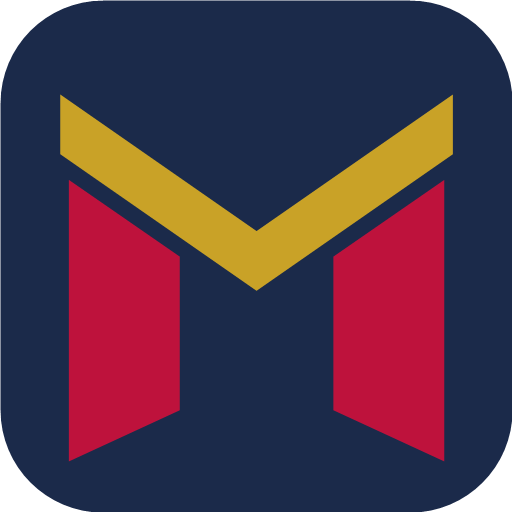
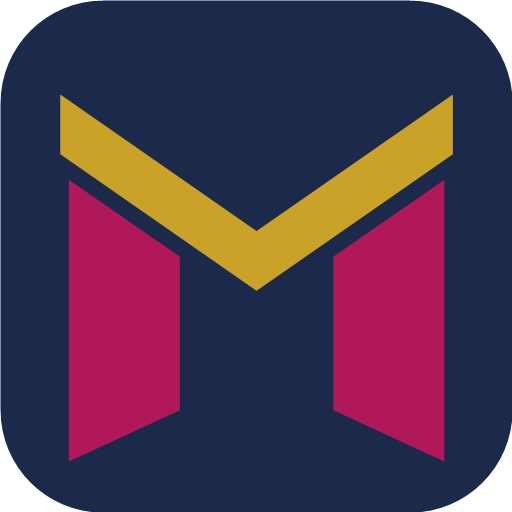
marca: Villela CRM na prancha OFICIAL aprovada
- pictograma = rede de pessoas (3 nos conectados pendurados no chevron)
- acento = Rosa Magenta #B0185A (era #BE123C provisorio)
- slogan oficial: 'Relacionamento que aproxima. Processos que convertem.'
- kit inteiro regenerado (SVGs + PNGs GDI+ + og-image) + referencia-board.png
- landing/painel com as cores novas; ficha da home com slogan e cor oficiais

Changed region(s): [[0.125, 0.3438, 0.375, 0.9062], [0.625, 0.3438, 0.875, 0.9062]]

diff --git a/crm/paginas.js b/crm/paginas.js
@@ -2,7 +2,7 @@
 // Villela CRM — páginas públicas + painel do assinante.
 // Landing/preços/signup em /crm · painel em /crm/app (SPA app-cliente.js)
 // · proposta pública em /crm/p/:token. Server-rendered, sem build.
-// Identidade: sistema V-Portal do Grupo Villela Stay; acento CRM #BE123C.
+// Identidade: sistema V-Portal do Grupo Villela Stay; acento CRM #B0185A.
 // =====================================================================
 'use strict';
 const jwt = require('jsonwebtoken');
@@ -14,7 +14,7 @@ const esc = (t) => String(t == null ? '' : t).replace(/&/g, '&amp;').replace(/</
 const brl = (c) => 'R$ ' + (Number(c || 0) / 100).toLocaleString('pt-BR', { minimumFractionDigits: 0 });
 const s = (v, max = 500) => String(v == null ? '' : v).trim().slice(0, max);
 
-const CSS = `:root{--villela-navy:#1B2A4A;--villela-navy2:#24365C;--villela-gold:#C9A227;--villela-ice:#F8F9FA;--villela-graphite:#1F2933;--acento:#BE123C;--acento2:#9F1239;--borda:#E2E6EC}
+const CSS = `:root{--villela-navy:#1B2A4A;--villela-navy2:#24365C;--villela-gold:#C9A227;--villela-ice:#F8F9FA;--villela-graphite:#1F2933;--acento:#B0185A;--acento2:#8E1348;--borda:#E2E6EC}
 *{box-sizing:border-box}body{font-family:'Inter',system-ui,'Segoe UI',Arial,sans-serif;margin:0;color:var(--villela-graphite);background:var(--villela-ice)}
 h1,h2,h3{font-family:'Lora',Georgia,serif}
 a{color:var(--acento)}.wrap{max-width:1040px;margin:0 auto;padding:0 18px}
@@ -23,7 +23,7 @@ a{color:var(--acento)}.wrap{max-width:1040px;margin:0 auto;padding:0 18px}
 .badge{display:inline-block;background:var(--villela-gold);color:var(--villela-navy);font-weight:700;padding:4px 12px;border-radius:20px;font-size:.85rem}
 .btn{display:inline-block;background:var(--acento);color:#fff;font-weight:700;border:0;border-radius:26px;padding:13px 28px;cursor:pointer;font-size:1rem;text-decoration:none}
 .btn:hover{background:var(--acento2)}
-.btn.g{background:#fff;color:var(--acento)}.btn.g:hover{background:#fdeef1}.btn.o{background:transparent;border:2px solid #f4f6f9;color:#f4f6f9}.btn.o:hover{background:rgba(255,255,255,.12)}
+.btn.g{background:#fff;color:var(--acento)}.btn.g:hover{background:#fdeef6}.btn.o{background:transparent;border:2px solid #f4f6f9;color:#f4f6f9}.btn.o:hover{background:rgba(255,255,255,.12)}
 .sec{padding:56px 0}.sec h2{font-size:1.7rem;color:var(--villela-navy);text-align:center;margin-bottom:8px}
 .sub{text-align:center;color:#5b6b70;max-width:620px;margin:0 auto 34px}
 .grid{display:grid;grid-template-columns:repeat(auto-fit,minmax(230px,1fr));gap:18px}
@@ -37,11 +37,11 @@ a{color:var(--acento)}.wrap{max-width:1040px;margin:0 auto;padding:0 18px}
 footer{background:var(--villela-navy);color:#c3cbd9;padding:30px 0;text-align:center;font-size:.9rem}
 input,select,textarea{width:100%;padding:11px;border:1px solid #ccc;border-radius:9px;font:inherit;margin:5px 0 12px}
 .form{max-width:460px;margin:0 auto;background:#fff;padding:26px;border-radius:14px;border:1px solid var(--borda)}
-.tag{display:inline-block;background:#fbe7ec;color:var(--acento2);border-radius:12px;padding:2px 10px;font-size:.8rem}
+.tag{display:inline-block;background:#fbe7f1;color:var(--acento2);border-radius:12px;padding:2px 10px;font-size:.8rem}
 .marca{display:inline-flex;align-items:center;gap:10px}.marca img{height:32px}
 .marca .m1{font-family:'Lora',Georgia,serif;font-weight:700;font-size:1.3rem;color:var(--villela-navy)}
 .marca .m2{font-family:'Inter',system-ui,sans-serif;font-weight:600;font-size:.72rem;letter-spacing:.22em;text-transform:uppercase;color:var(--acento)}
-.marca.neg .m1{color:#fff}.marca.neg .m2{color:#FDA4AF}
+.marca.neg .m1{color:#fff}.marca.neg .m2{color:#F6A8CE}
 header.top{background:var(--villela-navy2);color:#fff}
 header.top .wrap{display:flex;align-items:center;justify-content:space-between;gap:14px;flex-wrap:wrap;padding-top:18px;padding-bottom:18px}
 header.top a{color:#E8ECF4;text-decoration:none}
@@ -134,7 +134,7 @@ function landingHTML() {
         <textarea id="l-msg" rows="3" placeholder="Quantos leads/mês você recebe? Como podemos ajudar?"></textarea>
         <button class="btn" type="submit">Enviar</button><p id="l-msg2" class="sub" style="margin:8px 0 0"></p>
       </form></div></div>
-    <footer>Villela CRM · Relacionamento e vendas inteligentes · <a href="/crm/app" style="color:var(--villela-gold)">Painel do cliente</a> · <a href="/crm/ajuda" style="color:var(--villela-gold)">Ajuda</a>
+    <footer>Villela CRM · Relacionamento que aproxima. Processos que convertem. · <a href="/crm/app" style="color:var(--villela-gold)">Painel do cliente</a> · <a href="/crm/ajuda" style="color:var(--villela-gold)">Ajuda</a>
       <br><span style="opacity:.8">Uma empresa do Grupo Villela Stay · CNPJ 56.776.526/0001-12</span>
       <script>document.getElementById('lead').onsubmit=async e=>{e.preventDefault();const m=document.getElementById('l-msg2');
         const r=await fetch('/crm/api/lead',{method:'POST',headers:{'Content-Type':'application/json'},body:JSON.stringify({
@@ -182,11 +182,11 @@ function appHTML() {
     .kpi{background:#fff;border:1px solid var(--borda);border-radius:10px;padding:10px 16px;min-width:118px}
     .kpi .n{font-size:1.4rem;font-weight:800;color:var(--villela-navy)}.kpi .r{font-size:.78rem;color:#5b6b70}
     .aviso{background:#fdf6e3;border:1px solid #ecd9a0;border-radius:9px;padding:10px 14px;font-size:.9rem;margin:.4rem 0}
-    .erro{color:#b00020}.btn.peq{padding:6px 14px;font-size:.85rem}.btn.secund{background:#fbe7ec;color:var(--acento2)}.btn.secund:hover{background:#f7d5de}
+    .erro{color:#b00020}.btn.peq{padding:6px 14px;font-size:.85rem}.btn.secund{background:#fbe7f1;color:var(--acento2)}.btn.secund:hover{background:#f7d3e7}
     .hi-grid{display:grid;grid-template-columns:repeat(auto-fit,minmax(180px,1fr));gap:10px}
     label{font-size:.85rem;font-weight:600;display:block}
     table{width:100%;border-collapse:collapse;font-size:.9rem}th,td{text-align:left;padding:6px 8px;border-bottom:1px solid var(--borda)}
-    th{color:#5b6b70;font-weight:600}.chip,.tag{display:inline-block;background:#fbe7ec;color:var(--acento2);border-radius:12px;padding:2px 9px;font-size:.78rem}
+    th{color:#5b6b70;font-weight:600}.chip,.tag{display:inline-block;background:#fbe7f1;color:var(--acento2);border-radius:12px;padding:2px 9px;font-size:.78rem}
     .chip.frio{background:#e8eef4;color:#3b556e}.chip.morno{background:#fdf1dc;color:#92610a}.chip.quente{background:#fde3d2;color:#b4470b}.chip.muito-quente{background:#fbdada;color:#a31212}
     .kanban{display:flex;gap:10px;overflow-x:auto;padding-bottom:10px}
     .kcol{min-width:230px;max-width:250px;background:#EDF1F5;border-radius:12px;padding:8px;flex-shrink:0}

diff --git a/site/build.js b/site/build.js
@@ -422,8 +422,8 @@ const PRODUTOS_GRUPO = [
   { nome: 'Villela Projects', pasta: 'villela-projects', cor: '#7C3AED', url: 'https://projetos.villelastay.com.br',
     tag: ['Projetos, processos e automações em um só lugar', 'Projects, processes and automations in one place', 'Proyectos, procesos y automatizaciones en un solo lugar'],
     frase: ['Planeje e execute projetos e eventos com portfólio, tarefas, relatórios e portal do cliente.', 'Plan and deliver projects and events with portfolio, tasks, reports and a client portal.', 'Planifica y ejecuta proyectos y eventos con portafolio, tareas, informes y portal del cliente.'] },
-  { nome: 'Villela CRM', pasta: 'villela-crm', cor: '#BE123C', url: 'https://crm.villelastay.com.br',
-    tag: ['Relacionamento e vendas inteligentes', 'Smart relationships and sales', 'Relaciones y ventas inteligentes'],
+  { nome: 'Villela CRM', pasta: 'villela-crm', cor: '#B0185A', url: 'https://crm.villelastay.com.br',
+    tag: ['Relacionamento que aproxima. Processos que convertem.', 'Relationships that connect. Processes that convert.', 'Relaciones que acercan. Procesos que convierten.'],
     frase: ['CRM multicanal com funis Kanban, follow-ups automáticos, lead scoring e propostas — do lead ao pós-venda.', 'Multichannel CRM with Kanban pipelines, automatic follow-ups, lead scoring and proposals — from lead to after-sales.', 'CRM multicanal con embudos Kanban, seguimientos automáticos, lead scoring y propuestas — del lead a la posventa.'] },
   { nome: 'Livraria Villela', pasta: 'livraria-villela', cor: '#7F1D1D', url: 'https://livros.villelastay.com.br',
     tag: ['Livros, ideias e conhecimento aplicado', 'Books, ideas and applied knowledge', 'Libros, ideas y conocimiento aplicado'],

diff --git a/assets/brand/README.md b/assets/brand/README.md
@@ -27,7 +27,7 @@ Pranchas de referência geradas por IA e aprovadas pelo Augusto: `*/referencia-b
 
 `grupo-villela` (dourado) · `villela-stay` (dourado) · `villela-stay-manager` #0E7490 ·
 `villela-docs` #2563EB · `villela-legal` #14532D+dourado · `villela-academy` #D97706 ·
-`villela-projects` #7C3AED · `livraria-villela` #7F1D1D · `villela-crm` #BE123C. Base: navy #1B2A4A · gold #C9A227 ·
+`villela-projects` #7C3AED · `livraria-villela` #7F1D1D · `villela-crm` #B0185A. Base: navy #1B2A4A · gold #C9A227 ·
 ice #F8F9FA · graphite #1F2933. Tipografia: Lora (marca) + Inter (UI).
 
 ## Regenerar
